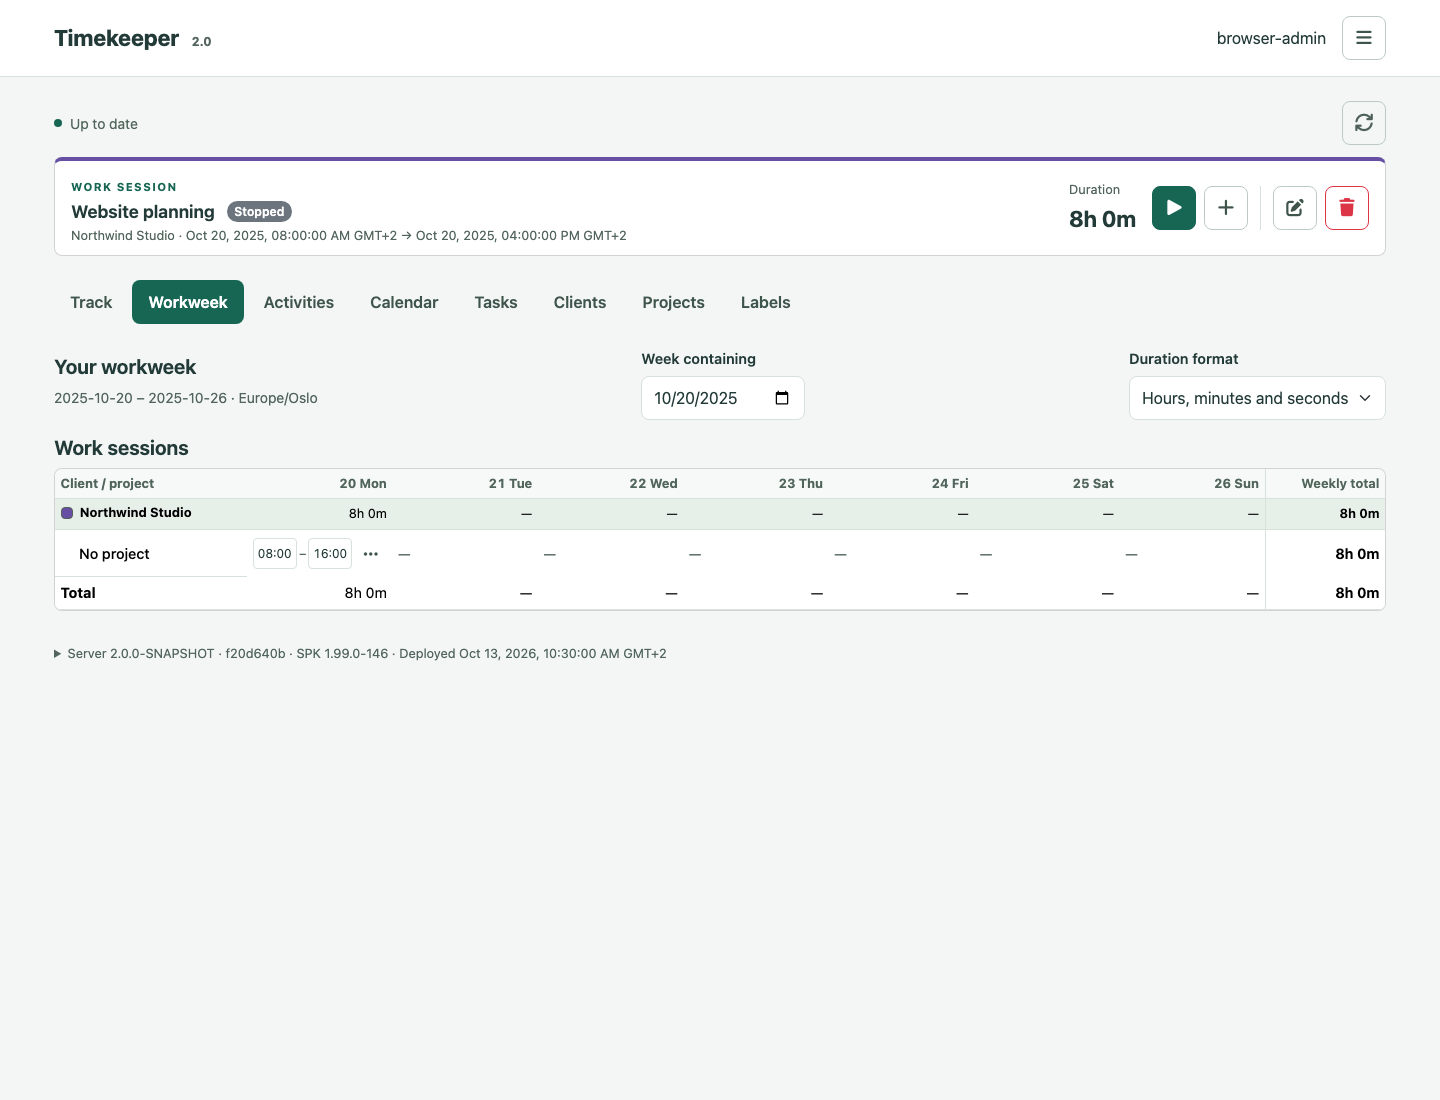
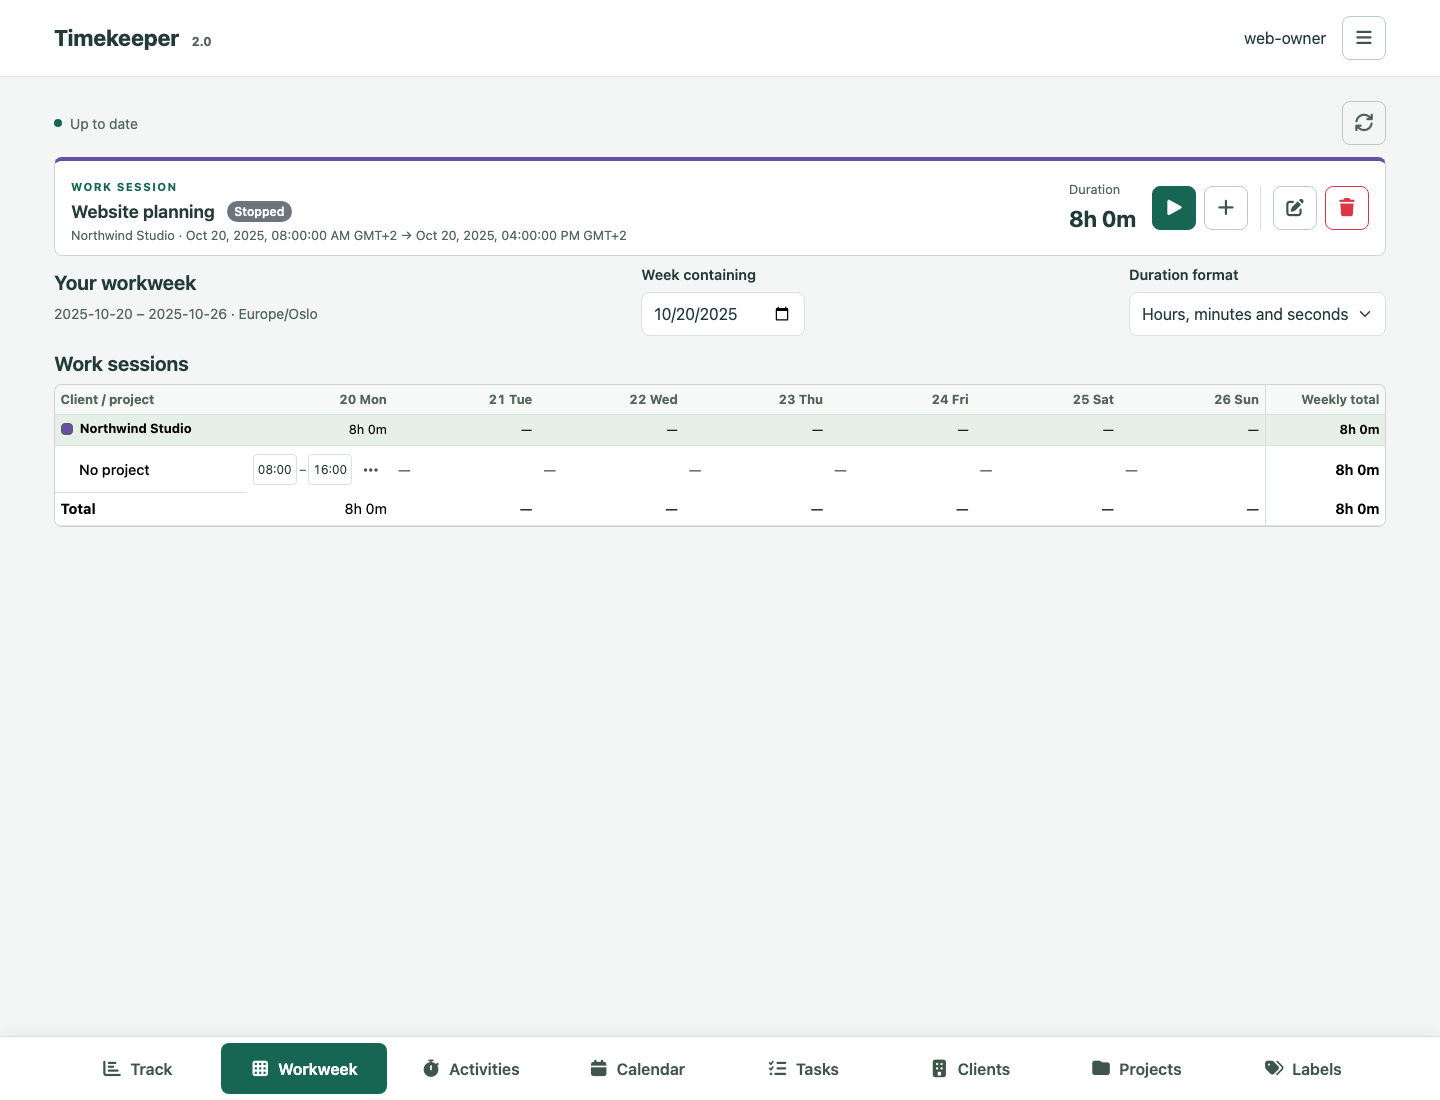
Refresh viewport design evidence and check About accessibility

diff --git a/server/web/tests/bottom-navigation.spec.js b/server/web/tests/bottom-navigation.spec.js
@@ -1,6 +1,6 @@
 import {test,expect} from '@playwright/test';
 import AxeBuilder from '@axe-core/playwright';
-import {openAccountMenu} from './navigation.js';
+import {openAccountMenu,openAbout} from './navigation.js';
 
 test('bottom navigation keeps every view accessible, stationary and clear of content at narrow and wide widths',async({page,browserName})=>{
   await page.goto('/web/');const bar=page.locator('#workspace-navigation');await expect(bar).not.toBeVisible();
@@ -27,6 +27,9 @@ test('bottom navigation keeps every view accessible, stationary and clear of con
   }
   const activities=bar.getByRole('button',{name:'Activities',exact:true});await activities.focus();await page.keyboard.press('Enter');await expect(activities).toHaveAttribute('aria-current','page');
   await page.keyboard.press(browserName==='webkit' && process.platform==='darwin' ? 'Alt+Tab':'Tab');await expect(bar.getByRole('button',{name:'Calendar',exact:true})).toBeFocused();
+  await page.setViewportSize({width:390,height:844});await openAbout(page);
+  const aboutAudit=await new AxeBuilder({page}).include('#server-info').withTags(['wcag2a','wcag2aa','wcag21aa']).analyze();expect(aboutAudit.violations).toEqual([]);
+  await page.keyboard.press('Escape');await expect(page.getByRole('button',{name:'Account menu',exact:true})).toBeFocused();
   await openAccountMenu(page);await page.getByRole('link',{name:'My Account',exact:true}).click();await expect(bar).not.toBeVisible();
   await page.getByRole('link',{name:'Back to time tracking',exact:true}).click();await expect(bar).toBeVisible();
   await openAccountMenu(page);await page.getByRole('button',{name:'Sign out',exact:true}).click();await expect(bar).not.toBeVisible();

diff --git a/server/web/tests/design.spec.js b/server/web/tests/design.spec.js
@@ -71,7 +71,7 @@ for(const [name,width,height] of [['desktop',1440,1100],['narrow',390,844]]) {
       await expect(page.locator('#work-session-elapsed')).toHaveText('8h 0m');
       await expect(page.locator('#work-session')).toHaveCSS('border-top-color','rgb(103, 80, 164)');
       await page.mouse.move(0,0);
-      await page.screenshot({path:`test-results/design-work-session-${name}.png`,fullPage:true});
+      await page.screenshot({path:`test-results/design-work-session-${name}.png`,fullPage:false});
       await page.locator('#work-session').screenshot({path:`test-results/design-session-card-${name}.png`});
       for(const tab of ['week','activities','calendar','tasks','clients','projects','labels']) {
         await page.locator(`[data-tab=${tab}]`).click();
